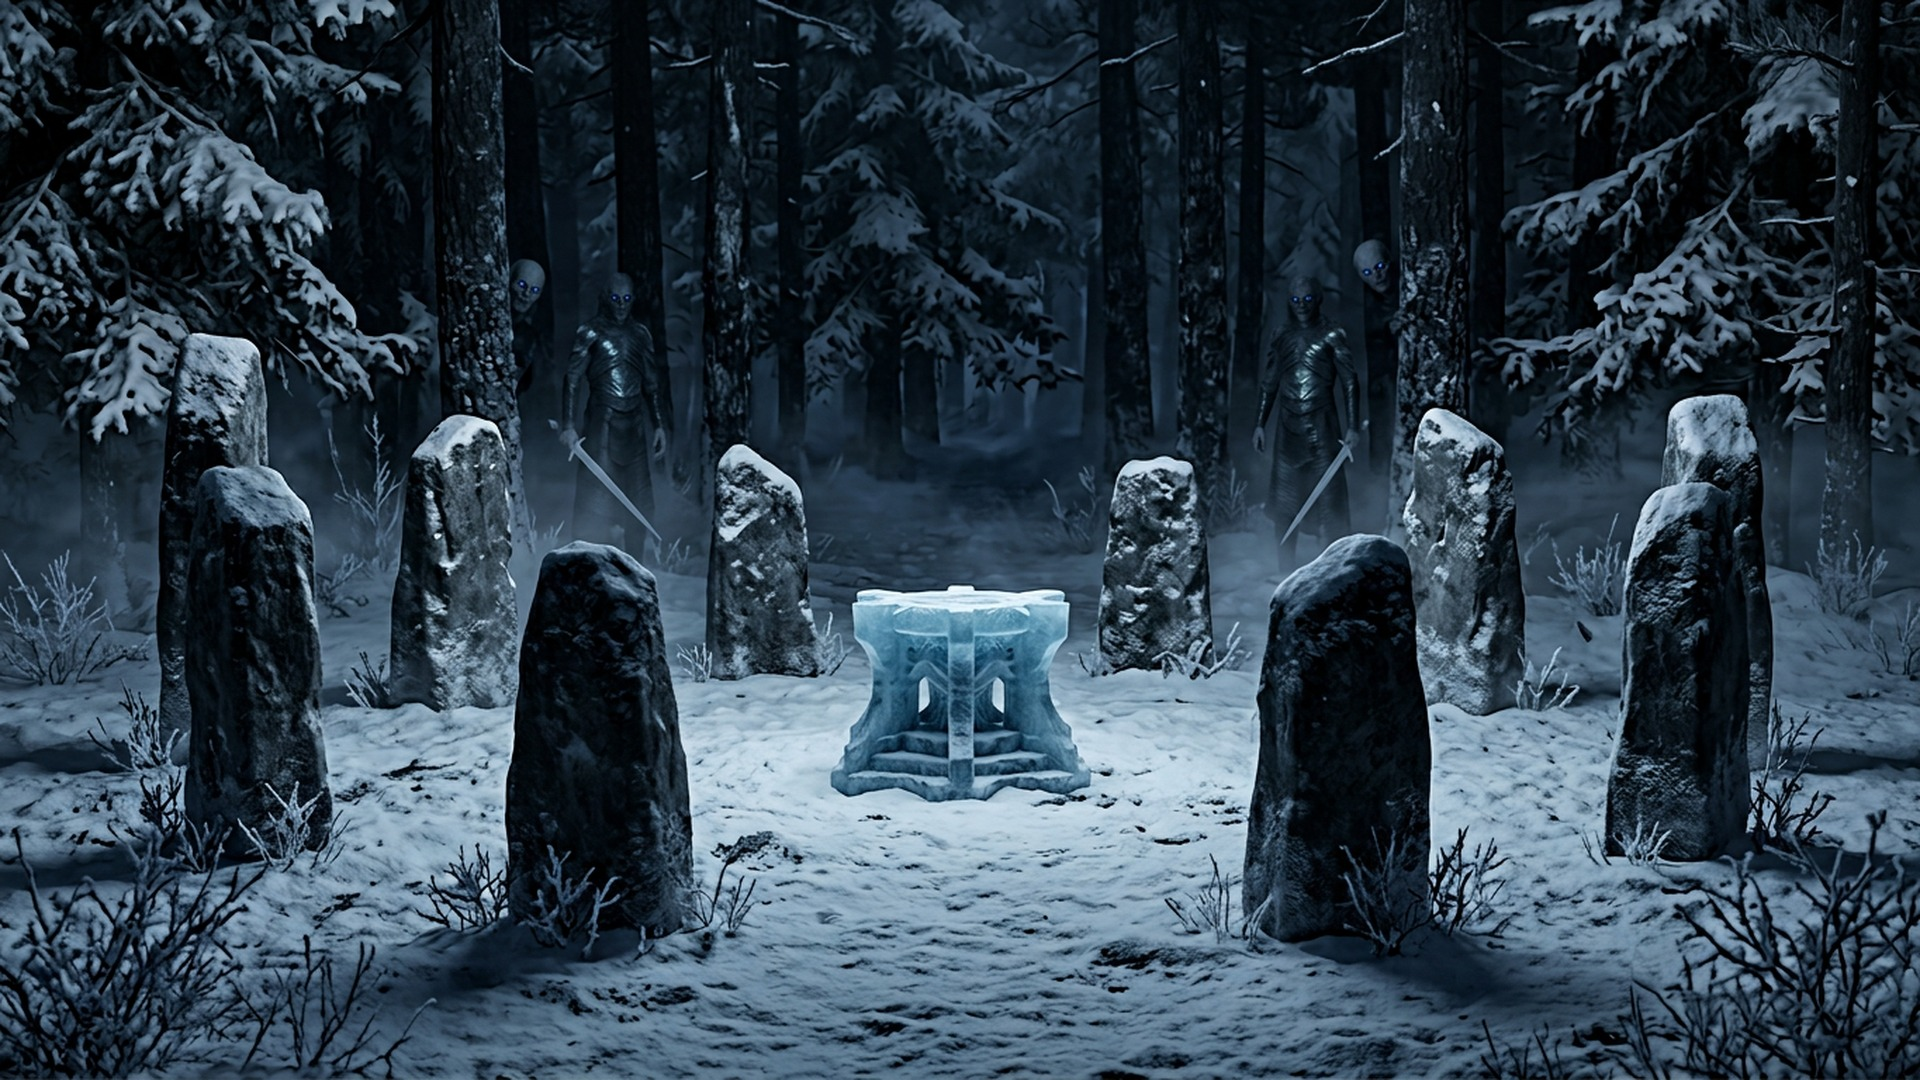
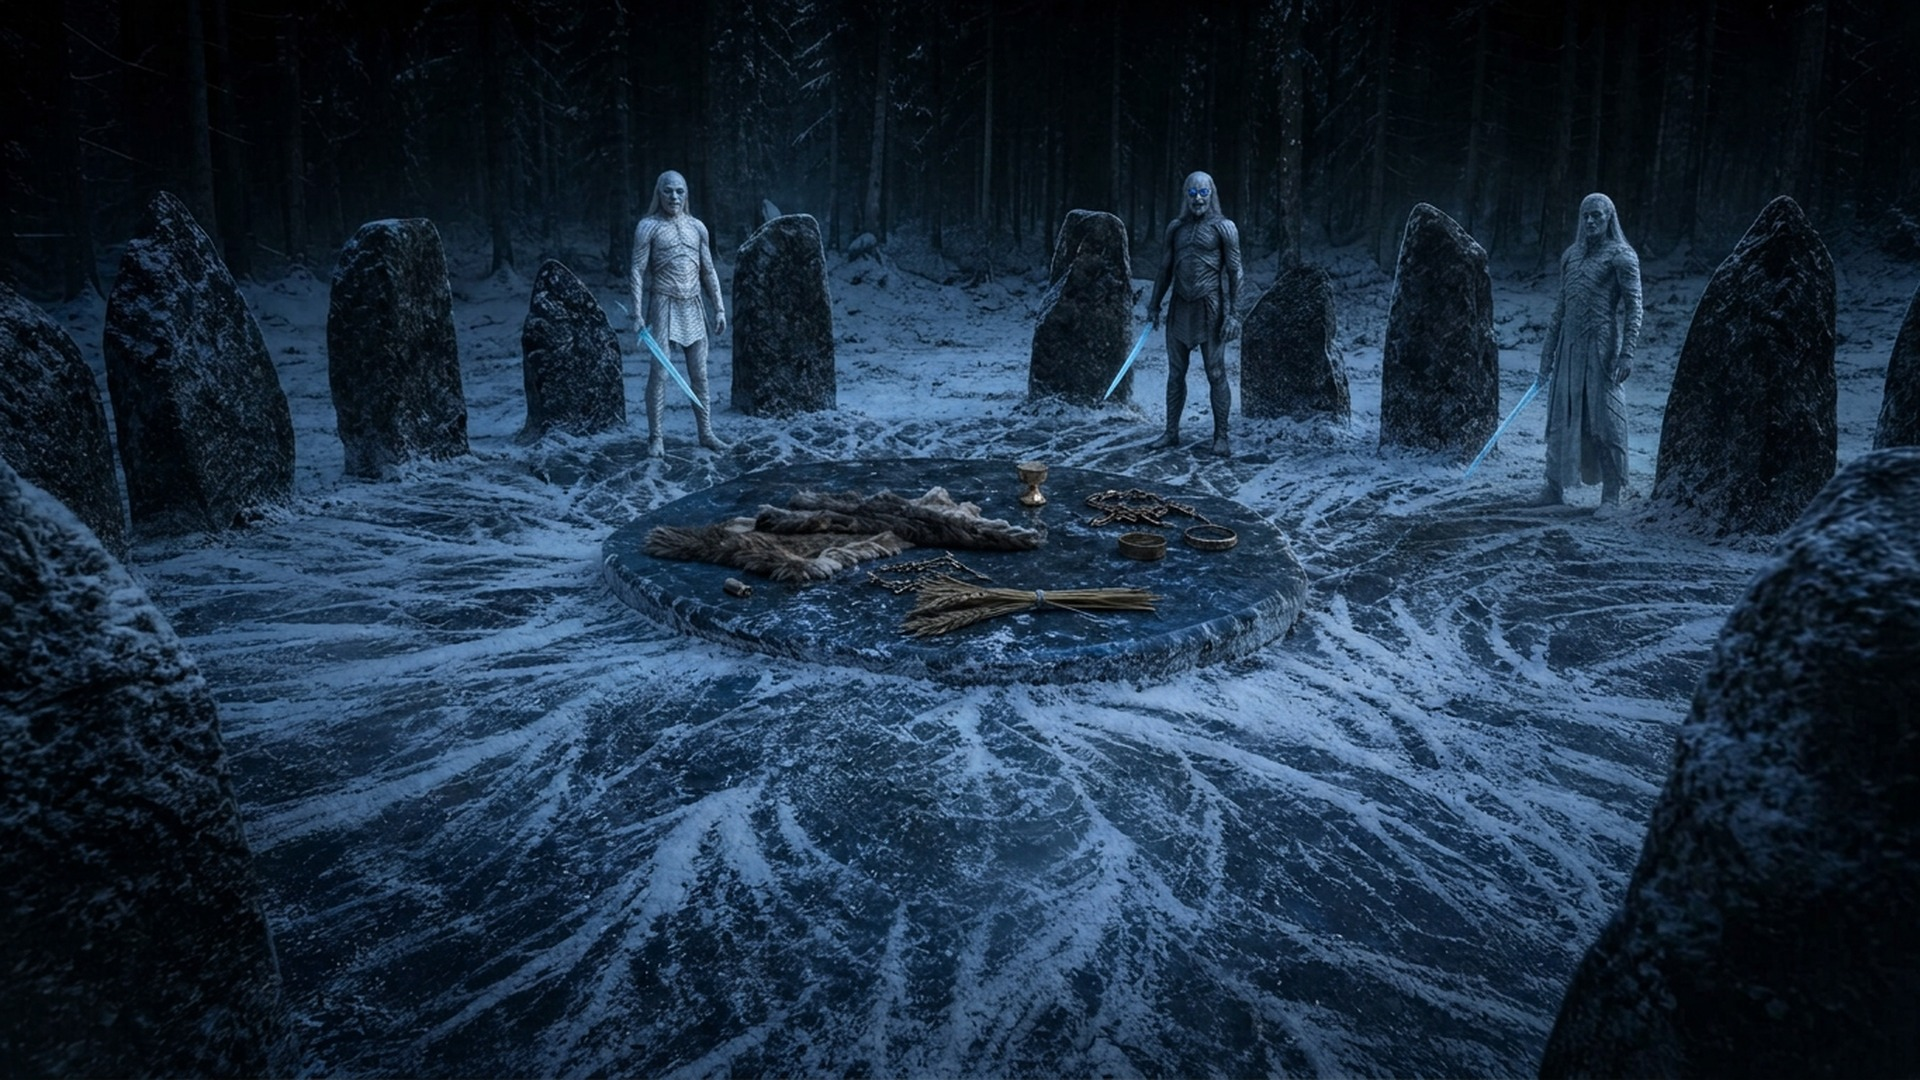
GOT001: S059 redo + S060-S068 (10 PASS); tools/still_norm.py; refs from stills_jpg; tracker v2.35

diff --git a/projects/dune_archives/tools/still_norm.py b/projects/dune_archives/tools/still_norm.py
@@ -1,0 +1,39 @@
+#!/usr/bin/env python3
+"""Normalise generated stills to 1920x1080 q92 JPG (letterbox auto-crop, centre 16:9 crop) and build a QC contact sheet.
+
+  python tools/still_norm.py <stills_jpg dir> <contact_sheet.jpg> <png> [<png> ...]
+Letterbox rows count as bars only when mean < 4 and std < 3; crop only if both bars exceed 8 px.
+"""
+import os, sys
+import numpy as np
+from PIL import Image, ImageDraw
+
+
+def norm(f, outdir):
+    im = Image.open(f).convert('RGB')
+    a = np.asarray(im.convert('L'), float)
+    rows = [(r.mean() < 4 and r.std() < 3) for r in a]
+    top = next(i for i, v in enumerate(rows) if not v)
+    bot = next(i for i, v in enumerate(rows[::-1]) if not v)
+    if top > 8 and bot > 8:
+        im = im.crop((0, top, im.width, im.height - bot))
+    W, H = im.size
+    tr = 16 / 9
+    if W / H > tr:
+        nw = int(H * tr); im = im.crop(((W - nw) // 2, 0, (W - nw) // 2 + nw, H))
+    else:
+        nh = int(W / tr); im = im.crop((0, (H - nh) // 2, W, (H - nh) // 2 + nh))
+    im = im.resize((1920, 1080), Image.LANCZOS)
+    im.save(os.path.join(outdir, os.path.basename(f).rsplit('.', 1)[0] + '.jpg'), quality=92)
+    print(os.path.basename(f), W, H, top, bot)
+    return im
+
+
+if __name__ == '__main__':
+    outdir, sheet_path, files = sys.argv[1], sys.argv[2], sys.argv[3:]
+    sheet = Image.new('RGB', (1600, 450 * ((len(files) + 1) // 2)))
+    for k, f in enumerate(files):
+        t = norm(f, outdir).resize((800, 450))
+        ImageDraw.Draw(t).text((8, 8), os.path.basename(f)[14:50], fill='yellow')
+        sheet.paste(t, ((k % 2) * 800, (k // 2) * 450))
+    sheet.save(sheet_path, quality=85)

diff --git a/projects/dune_archives/00_master/MASTER_INDEX_AND_TRACKER.md b/projects/dune_archives/00_master/MASTER_INDEX_AND_TRACKER.md
@@ -86,7 +86,7 @@ Folders 10, 11, 12, 19, 21, 22, 23 and 24 are empty on purpose. They fill once p
 |---|---|---|---|---|---|---|---|---|---|---|---|---|
 | DUN003 | Dune Messiah Explained Before Part Three | STANDARD | APPROVED (topic + 15 min + 150 imgs, 2026-11-23) | ☑ | ☑ 15 min | ☑ 150 imgs / 15 batches | v1.0 APPROVED | v1 (178 shots) | B001 ✅ · B002 ✅ · B003 ✅ · B004 ✅ · B005 ✅ · B006 ✅ · B007 4/10 (+Duncan pending, 1 fix) · B008 3/10 | — | — | — |
 | DUN001 | The Butlerian Jihad: The War Against the Thinking Machines | EPIC | **MASTER v1 ON DRIVE** 22_edit `1PpbtA6EKYWP-Inc31NuFSd0R0Y4immpj` (492.8 MB, 11:54, 1080p24, ≈−14.7 LUFS / −0.9 dBTP) — awaiting director review | ☑ | ☑ 11:54 | ☑ 150 imgs / 15 batches | v1.0 APPROVED · rev 1.1 (VI softened, approved) | data/dun001.py (168 cuts, 42 gfx incl. chapter cards) | B001–B015 ✅ **150/150 QC PASS** (anchors: Erasmus, Serena, Vorian, Xavier, Iblis, Agamemnon, Abulurd) | VO ✅ 13/13 · aligned 100% · maps A/B/C ✅ · mix ✅ −14 LUFS/−1 dBTP | — | — |
-| GOT001 | The Night King: Who Was He Really? | EPIC | IN PRODUCTION (script approved; VO 12/12; aligned 100%; timeline 10:35; stills 58/150) | ☑ | ☑ VO 598.7 s, 12/12 sections → programme ≈10:40 (runtime option A) | ☐ 150 imgs (58 PASS; S059 FIX) | v1.0 APPROVED | — | — | — | — | — |
+| GOT001 | The Night King: Who Was He Really? | EPIC | IN PRODUCTION (script approved; VO 12/12; aligned 100%; timeline 10:35; stills 68/150) | ☑ | ☑ VO 598.7 s, 12/12 sections → programme ≈10:40 (runtime option A) | ☐ 150 imgs (68 PASS: B001–B006 60/60, B007 8/10) | v1.0 APPROVED | — | — | — | — | — |
 
 ## E. Data counts (from `00_master/build_summary.json`)
 
@@ -711,5 +711,6 @@ Index/QC v21 Doc: `1Xd5uubuVr8HSOOF7w4-m3S2es9A0PhxvI7hFvTYLZpw`. S012/S016 turn
 | v2.32 | 2026-11-25 | GOT001 S034–S043 all PASS, face-checked (Night's King made Lord Commander, eyes macro, lone sentry, at the edge, over-shoulder view of the corpse queen below, queen full figure, the ride through the haunted forest, hands touching with frost, frost face, queen walking into mist). S018 flagged FIX for continuity (pre-audit loose hair vs the new braid). Stills 42/150 |
 | v2.33 | 2026-11-25 | GOT001: S018 redone (braid continuity). S044–S052: 8 PASS (the Others as Martin describes them, through the Wall, proclaimed king and queen, enthralled brothers, the Nightfort's cold light, thirteen winters, sunrise panorama, the two hosts meet). S045 queen profile FIX (possible actress likeness), so the S002 queen anchor goes to REVIEW for a redesign. Stills 50/150 |
 | v2.34 | 2026-11-25 | GOT001: corpse queen anchor S002 REDESIGNED (ageless, barely twenty, narrow heart-shaped face, wide-set star-blue eyes, frost crystals on the cheekbones, frosted braids; silver hair and robes kept for continuity), and S039/S045 re-derived. S053–S058 PASS (alliance clasp, giants waking, the two kings, the march on the Nightfort, the Nightfort taken with brothers waking from the spell, stone ring with offerings). S059 FIX (Others not visible). Stills 58/150 |
+| v2.35 | 2026-11-25 | Workspace reset again (restored from origin). Reference images now come from the committed `stills_jpg/` (PNGs are git-ignored and lost on reset); `tools/still_norm.py` added (normalise + contact sheet). GOT001 S059 redone (Others visible) + S060–S068 all PASS (records burned, relief chiselled away, the Nightfort ruin today, Old Nan close-up and leaning in, young Bran in bed, the banner hall with book heraldry, Skagos, Bear Island). Stills 68/150 |
 
 > Turn 22 note: the old manifests v11, continuity v1.4 and original tracker Doc have their Drive descriptions set to SUPERSEDED, pointing at the new IDs above. The Drive tracker v2.12 Doc is a snapshot taken before its own ID was added here.

diff --git a/projects/dune_archives/26_learning_log/CHANNEL_LEARNING_LOG.md b/projects/dune_archives/26_learning_log/CHANNEL_LEARNING_LOG.md
@@ -209,3 +209,4 @@
 - **"Abandoned" means no people:** a ruined-hall prompt without "no people, completely empty" got a lone brother added (S021). Say "no people" explicitly when the script says nobody lives there.
 - **Likeness audit (turn 67, director's order):** at contact-sheet size, 4 of 9 GOT001 face stills turned out to read as show actors or to drift toward them (Sam, Bran, the Night's King anchor and its follow-up shot). The fix that worked first time was **changing the book attributes the show cast did not have**: Sam fair-haired, pink and clean-shaven; Bran Tully auburn with freckles; the Night's King older and gaunt with a braid and a scar. Rebuild the anchor first (wave 1), then re-derive the dependent shots from it (wave 2), so the corrected face propagates.
 - **Fix the anchor, not just the shot:** S026 drifted because the S001 anchor was already close to the type. A likeness FIX on any shot means checking its reference anchor too.
+- **Refs survive resets only if committed:** the generated PNGs live in a git-ignored folder and vanished on the turn-71 workspace reset. The 1920×1080 JPGs in `stills_jpg/` work just as well as `images` references, so always reference those. The normalise/QC script now lives in `tools/still_norm.py`, not /tmp.
